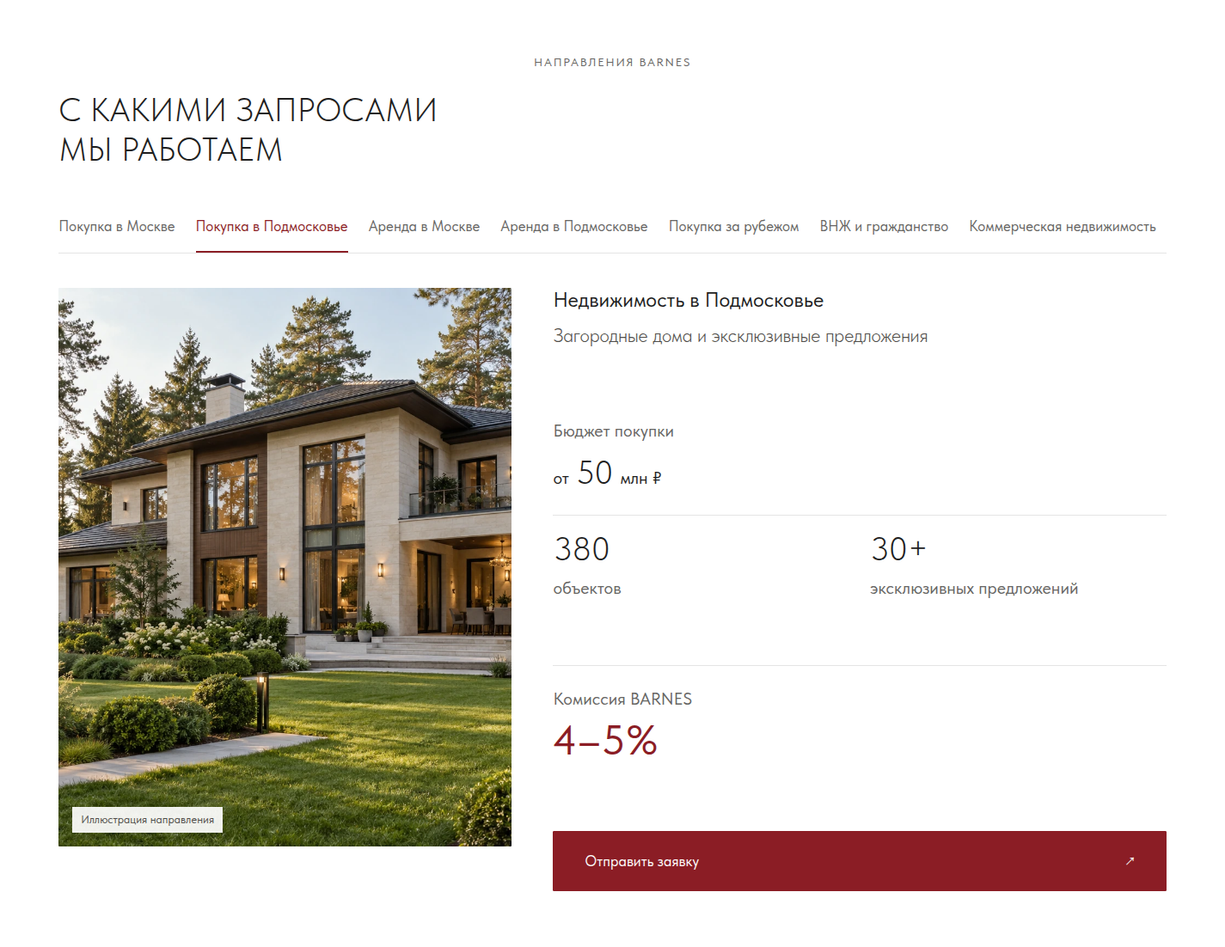
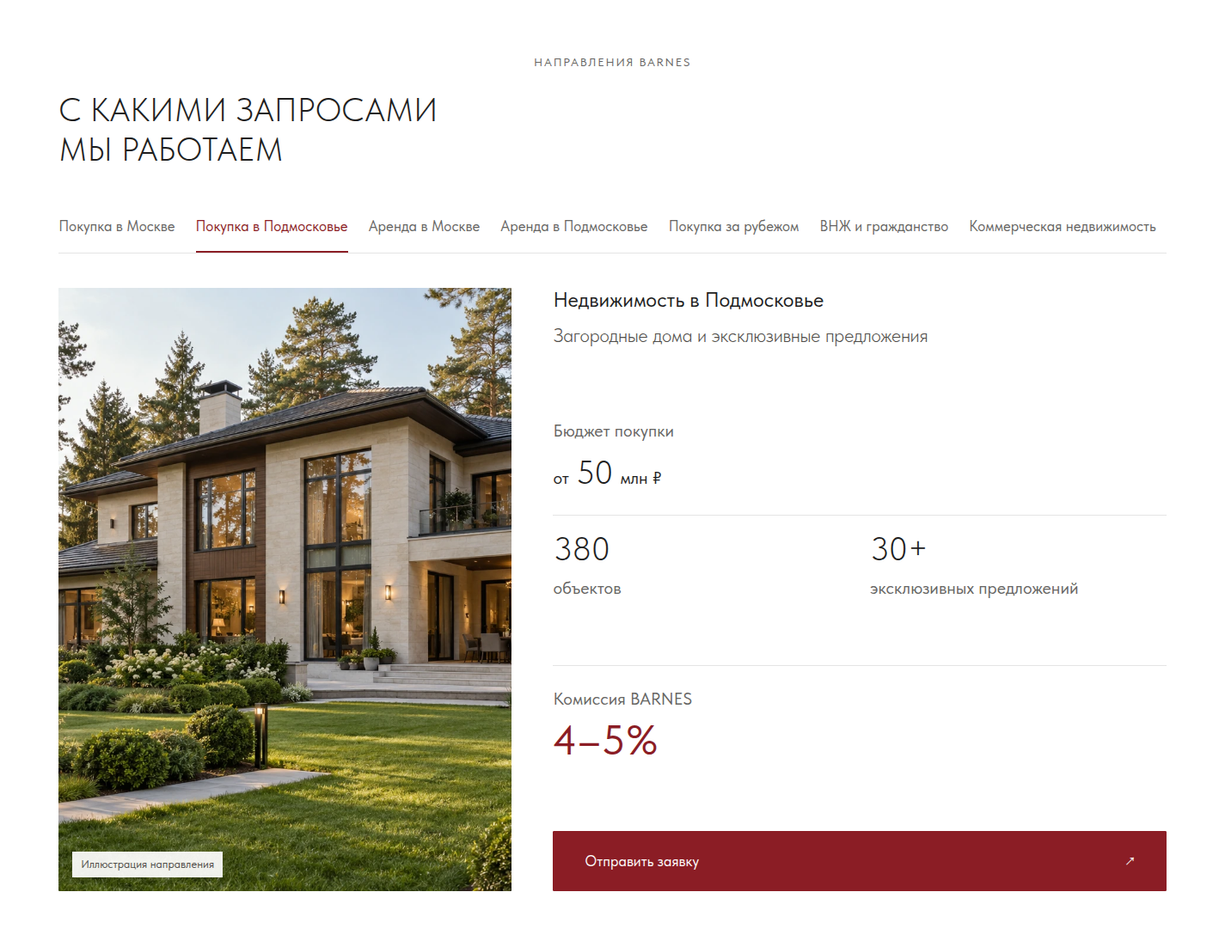
style: align direction image bottom with application button

Changed region(s): [[0.0309, 0.2777, 0.4323, 0.9564]]

diff --git a/for-partners/index.html b/for-partners/index.html
@@ -69,7 +69,7 @@
   <path d="M5 12h14"/>
 </svg>
 </span></span></button><div class="catalog-faq__answer" data-v-d09db9d2><div class="catalog-faq__answer-content" data-v-d09db9d2>Перед закреплением мы проверяем уникальность клиента. Если контакт уже есть в работе компании, рекомендация не может быть закреплена повторно.</div></div></div><!--]--></div><!--]--></div></div></section><!--teleport start--><!--teleport end--></div><!--]--></main><section class="newsletter-cta" aria-labelledby="newsletter-title" data-v-47bd53e9 data-v-6e36ab0f><div class="newsletter-cta__inner" data-v-6e36ab0f><div class="newsletter-cta__grid" data-v-6e36ab0f><div class="newsletter-cta__copy" data-v-6e36ab0f><h2 id="newsletter-title" data-v-6e36ab0f> Оставайтесь впереди рынка </h2><p class="newsletter-cta__lead" data-v-6e36ab0f> Новые проекты, редкие объекты и экспертные материалы BARNES — всё, что помогает лучше ориентироваться в мире элитной недвижимости. </p><form class="newsletter-form" novalidate data-v-6e36ab0f><label class="newsletter-form__label" for="newsletter-email" data-v-6e36ab0f> Ваш email </label><div class="newsletter-form__row" data-v-6e36ab0f><input id="newsletter-email" value name="email" type="email" autocomplete="email" placeholder="Ваш email" aria-describedby="newsletter-note" data-v-6e36ab0f><button type="submit" data-v-6e36ab0f>Подписаться <span aria-hidden="true" data-v-6e36ab0f>↗</span></button></div><p id="newsletter-error" class="newsletter-form__error" aria-hidden="true" data-v-6e36ab0f> </p><p class="newsletter-form__note" id="newsletter-note" data-v-6e36ab0f> Нажимая на кнопку, вы соглашаетесь с <a class="newsletter-form__note-link" target="_blank" href="/legal_notices/yuridicheskie-uvedomleniya/" data-v-6e36ab0f><!--[--> политикой конфиденциальности <!--]--></a>. </p><!----></form></div><div class="newsletter-cta__visual" data-v-6e36ab0f><picture data-v-6e36ab0f><source media="(max-width: 540px)" srcset="assets/subscribe-block-img-mob.webp" data-v-6e36ab0f><img src="assets/subscribe-block-img.webp" alt="Обложки журнала BARNES" width="1100" height="540" loading="lazy" data-v-6e36ab0f></picture></div></div></div></section><footer class="site-footer" data-v-47bd53e9 data-v-6eb18211><div class="site-footer__inner base-container" data-v-6eb18211><a class="site-footer__logo" aria-label="BARNES Moscow — на главную" href="https://front.barnes.vsavr.ru/" data-v-6eb18211><!--[--><img src="assets/logo.svg" alt="BARNES Moscow" width="318" height="44" data-v-6eb18211><!--]--></a><nav class="site-footer__nav" aria-label="Навигация по сайту" data-v-6eb18211><!--[--><div class="site-footer__column" data-v-6eb18211><p class="site-footer__column-title" data-v-6eb18211>Москва</p><ul class="site-footer__links" data-v-6eb18211><!--[--><li data-v-6eb18211><a class="site-footer__link" href="https://front.barnes.vsavr.ru/vtorichnaya-nedvizhimost/" data-v-6eb18211><!--[-->Вторичная<!--]--></a></li><li data-v-6eb18211><a class="site-footer__link" href="https://front.barnes.vsavr.ru/arendovat/" data-v-6eb18211><!--[-->Арендовать<!--]--></a></li><li data-v-6eb18211><a class="site-footer__link" href="https://front.barnes.vsavr.ru/novostroyki/" data-v-6eb18211><!--[-->Новостройки<!--]--></a></li><li data-v-6eb18211><a class="site-footer__link" href="https://front.barnes.vsavr.ru/zhilye-kompleksy/" data-v-6eb18211><!--[-->Жилые комплексы<!--]--></a></li><li data-v-6eb18211><a class="site-footer__link" href="https://front.barnes.vsavr.ru/gorodskaya-nedvizhimost/kvartiry/" data-v-6eb18211><!--[-->Квартиры<!--]--></a></li><li data-v-6eb18211><a class="site-footer__link" href="https://front.barnes.vsavr.ru/gorodskaya-nedvizhimost/apartamenty/" data-v-6eb18211><!--[-->Апартаменты<!--]--></a></li><li data-v-6eb18211><a class="site-footer__link" href="https://front.barnes.vsavr.ru/kupit-penthausy-v-moskve/" data-v-6eb18211><!--[-->Пентхаусы<!--]--></a></li><li data-v-6eb18211><a class="site-footer__link" href="https://front.barnes.vsavr.ru/zastroyshchiki/" data-v-6eb18211><!--[-->Застройщики<!--]--></a></li><!--]--></ul></div><div class="site-footer__column" data-v-6eb18211><p class="site-footer__column-title" data-v-6eb18211>Загородная</p><ul class="site-footer__links" data-v-6eb18211><!--[--><li data-v-6eb18211><a class="site-footer__link" href="https://front.barnes.vsavr.ru/zagorodnaya-nedvizhimost/" data-v-6eb18211><!--[-->Купить<!--]--></a></li><li data-v-6eb18211><a class="site-footer__link" href="https://front.barnes.vsavr.ru/snyat-zagorodnuyu-nedvizhimost/" data-v-6eb18211><!--[-->Снять<!--]--></a></li><li data-v-6eb18211><a class="site-footer__link" href="https://front.barnes.vsavr.ru/kottedzhnye-poselki/" data-v-6eb18211><!--[-->Коттеджные поселки<!--]--></a></li><!--]--></ul></div><div class="site-footer__column" data-v-6eb18211><p class="site-footer__column-title" data-v-6eb18211>Коммерческая</p><ul class="site-footer__links" data-v-6eb18211><!--[--><li data-v-6eb18211><a class="site-footer__link" href="https://front.barnes.vsavr.ru/kommercheskaya-nedvizhimost/" data-v-6eb18211><!--[-->Купить<!--]--></a></li><li data-v-6eb18211><a class="site-footer__link" href="https://front.barnes.vsavr.ru/kommercheskaya-nedvizhimost/arendovat/" data-v-6eb18211><!--[-->Снять<!--]--></a></li><li data-v-6eb18211><a class="site-footer__link" href="https://front.barnes.vsavr.ru/kommercheskaya-nedvizhimost/zdanie/" data-v-6eb18211><!--[-->Здания<!--]--></a></li><li data-v-6eb18211><a class="site-footer__link" href="https://front.barnes.vsavr.ru/kommercheskaya-nedvizhimost/business-center/" data-v-6eb18211><!--[-->Бизнес-центры<!--]--></a></li><li data-v-6eb18211><a class="site-footer__link" href="https://front.barnes.vsavr.ru/kommercheskaya-nedvizhimost/osobnyak/" data-v-6eb18211><!--[-->Особняки<!--]--></a></li><li data-v-6eb18211><a class="site-footer__link" href="https://front.barnes.vsavr.ru/kommercheskaya-nedvizhimost/arendnyj-biznes/" data-v-6eb18211><!--[-->Арендный бизнес<!--]--></a></li><!--]--></ul></div><div class="site-footer__column" data-v-6eb18211><p class="site-footer__column-title" data-v-6eb18211>Курортная</p><ul class="site-footer__links" data-v-6eb18211><!--[--><li data-v-6eb18211><a class="site-footer__link" href="https://front.barnes.vsavr.ru/media/tag/investitsii-v-kurortnuyu-nedvizhimost-rossii/" data-v-6eb18211><!--[-->Инвестиции<!--]--></a></li><li data-v-6eb18211><a class="site-footer__link" href="https://front.barnes.vsavr.ru/altai/" data-v-6eb18211><!--[-->Алтай<!--]--></a></li><li data-v-6eb18211><a class="site-footer__link" href="https://front.barnes.vsavr.ru/arhyz/" data-v-6eb18211><!--[-->Архыз<!--]--></a></li><li data-v-6eb18211><a class="site-footer__link" href="https://front.barnes.vsavr.ru/sochi/" data-v-6eb18211><!--[-->Сочи<!--]--></a></li><!--]--></ul></div><div class="site-footer__column" data-v-6eb18211><p class="site-footer__column-title" data-v-6eb18211>Зарубежная</p><ul class="site-footer__links" data-v-6eb18211><!--[--><li data-v-6eb18211><a class="site-footer__link" href="https://front.barnes.vsavr.ru/oae/" data-v-6eb18211><!--[-->ОАЭ<!--]--></a></li><li data-v-6eb18211><a class="site-footer__link" href="https://front.barnes.vsavr.ru/mezhdunarodnaya-nedvizhimost/turtsiya/" data-v-6eb18211><!--[-->Турция<!--]--></a></li><li data-v-6eb18211><a class="site-footer__link" href="https://front.barnes.vsavr.ru/tailand/" data-v-6eb18211><!--[-->Таиланд<!--]--></a></li><li data-v-6eb18211><a class="site-footer__link" href="https://front.barnes.vsavr.ru/zhilye-kompleksy-indonesia/" data-v-6eb18211><!--[-->Бали<!--]--></a></li><li data-v-6eb18211><a class="site-footer__link" href="https://front.barnes.vsavr.ru/ispaniya/" data-v-6eb18211><!--[-->Испания<!--]--></a></li><li data-v-6eb18211><a class="site-footer__link" href="https://front.barnes.vsavr.ru/italiya/" data-v-6eb18211><!--[-->Италия<!--]--></a></li><li data-v-6eb18211><a class="site-footer__link" href="https://front.barnes.vsavr.ru/portugaliya/" data-v-6eb18211><!--[-->Португалия<!--]--></a></li><li data-v-6eb18211><a class="site-footer__link" href="https://front.barnes.vsavr.ru/frantsiya/" data-v-6eb18211><!--[-->Франция<!--]--></a></li><li data-v-6eb18211><a class="site-footer__link" href="https://front.barnes.vsavr.ru/oman/" data-v-6eb18211><!--[-->Оман<!--]--></a></li><li data-v-6eb18211><a class="site-footer__link" href="https://front.barnes.vsavr.ru/mezhdunarodnaya-nedvizhimost-zhilye-kompleksy/" data-v-6eb18211><!--[-->Жилые комплексы<!--]--></a></li><!--]--></ul></div><div class="site-footer__column" data-v-6eb18211><p class="site-footer__column-title" data-v-6eb18211>Санкт-Петербург</p><ul class="site-footer__links" data-v-6eb18211><!--[--><li data-v-6eb18211><a class="site-footer__link" href="https://barnes-spb.ru/gorodskaya-nedvizhimost/vtorichnaya-nedvizhimost/" data-v-6eb18211><!--[-->Вторичная<!--]--></a></li><li data-v-6eb18211><a class="site-footer__link" href="https://barnes-spb.ru/gorodskaya-nedvizhimost/novostroyki/" data-v-6eb18211><!--[-->Новостройки<!--]--></a></li><li data-v-6eb18211><a class="site-footer__link" href="https://barnes-spb.ru/zagorodnaya-nedvizhimost/" data-v-6eb18211><!--[-->Загородная<!--]--></a></li><li data-v-6eb18211><a class="site-footer__link" href="https://barnes-spb.ru/kommercheskaya-nedvizhimost/" data-v-6eb18211><!--[-->Коммерческая<!--]--></a></li><li data-v-6eb18211><a class="site-footer__link" href="https://barnes-spb.ru/exclusive/" data-v-6eb18211><!--[-->Эксклюзив<!--]--></a></li><li data-v-6eb18211><a class="site-footer__link" href="https://barnes-spb.ru/gorodskaya-nedvizhimost/filter/type_immovables-is-apartamenty/" data-v-6eb18211><!--[-->Апартаменты<!--]--></a></li><li data-v-6eb18211><a class="site-footer__link" href="https://barnes-spb.ru/gorodskaya-nedvizhimost/filter/type_immovables-is-penthausy/" data-v-6eb18211><!--[-->Пентхаус<!--]--></a></li><!--]--></ul></div><div class="site-footer__column" data-v-6eb18211><p class="site-footer__column-title" data-v-6eb18211>Медиа</p><ul class="site-footer__links" data-v-6eb18211><!--[--><li data-v-6eb18211><a class="site-footer__link" href="https://front.barnes.vsavr.ru/media/blog/" data-v-6eb18211><!--[-->Блог<!--]--></a></li><li data-v-6eb18211><a class="site-footer__link" href="https://front.barnes.vsavr.ru/media/novosti/" data-v-6eb18211><!--[-->Новости<!--]--></a></li><li data-v-6eb18211><a class="site-footer__link" href="https://front.barnes.vsavr.ru/media/vebinary-i-video/" data-v-6eb18211><!--[-->Вебинары и видео<!--]--></a></li><li data-v-6eb18211><a class="site-footer__link" href="https://front.barnes.vsavr.ru/media/analitika/" data-v-6eb18211><!--[-->Аналитика рынка<!--]--></a></li><li data-v-6eb18211><a class="site-footer__link" href="https://front.barnes.vsavr.ru/media/stil-zhizni/" data-v-6eb18211><!--[-->Искусство жить<!--]--></a></li><li data-v-6eb18211><a class="site-footer__link" href="https://front.barnes.vsavr.ru/media/cases/" data-v-6eb18211><!--[-->Кейсы<!--]--></a></li><li data-v-6eb18211><a class="site-footer__link" href="https://front.barnes.vsavr.ru/zhurnaly/" data-v-6eb18211><!--[-->Журнал<!--]--></a></li><!--]--></ul></div><div class="site-footer__column" data-v-6eb18211><p class="site-footer__column-title" data-v-6eb18211>О BARNES</p><ul class="site-footer__links" data-v-6eb18211><!--[--><li data-v-6eb18211><a class="site-footer__link" href="https://front.barnes.vsavr.ru/contacts/" data-v-6eb18211><!--[-->Контакты<!--]--></a></li><li data-v-6eb18211><a class="site-footer__link" href="https://front.barnes.vsavr.ru/for-partners/" data-v-6eb18211><!--[-->Партнерам<!--]--></a></li><li data-v-6eb18211><a class="site-footer__link" href="https://front.barnes.vsavr.ru/barnes-club/" data-v-6eb18211><!--[-->Barnes Club<!--]--></a></li><li data-v-6eb18211><a class="site-footer__link" href="https://front.barnes.vsavr.ru/novosti/smi-o-nas/" data-v-6eb18211><!--[-->СМИ о нас<!--]--></a></li><li data-v-6eb18211><a class="site-footer__link" href="https://front.barnes.vsavr.ru/novosti/meropriyatiya/" data-v-6eb18211><!--[-->Мероприятия<!--]--></a></li><li data-v-6eb18211><a class="site-footer__link" href="https://front.barnes.vsavr.ru/team/" data-v-6eb18211><!--[-->Команда<!--]--></a></li><li data-v-6eb18211><a class="site-footer__link" href="https://front.barnes.vsavr.ru/vacancies/" data-v-6eb18211><!--[-->Вакансии<!--]--></a></li><li data-v-6eb18211><a class="site-footer__link" href="https://front.barnes.vsavr.ru/stily-zhizni/" data-v-6eb18211><!--[-->Стиль жизни<!--]--></a></li><!--]--></ul></div><div class="site-footer__column" data-v-6eb18211><p class="site-footer__column-title" data-v-6eb18211>Собственникам</p><ul class="site-footer__links" data-v-6eb18211><!--[--><li data-v-6eb18211><a class="site-footer__link" href="https://front.barnes.vsavr.ru/prodazha_sobstvennikam/" data-v-6eb18211><!--[-->Продажа<!--]--></a></li><li data-v-6eb18211><a class="site-footer__link" href="https://front.barnes.vsavr.ru/arenda_sobstvennikam/" data-v-6eb18211><!--[-->Аренда<!--]--></a></li><!--]--></ul></div><!--]--></nav><div class="site-footer__bottom" data-v-6eb18211><div class="site-footer__contacts" data-v-6eb18211><a class="site-footer__phone" href="tel:74951825079" data-v-6eb18211><!--[-->+7 (495) 182-50-79<!--]--></a><a class="site-footer__email" href="mailto:moscow@barn-estate.com" data-v-6eb18211><!--[-->moscow@barn-estate.com<!--]--></a><p class="site-footer__address" data-v-6eb18211>ул. Петровка, дом 19, стр. 1</p><p class="site-footer__hours" data-v-6eb18211>Время работы с 9.00-21.00</p><ul class="site-footer__socials" data-v-6eb18211><!--[--><li data-v-6eb18211><a class="site-footer__social" aria-label="youtube" target="_blank" rel="noopener noreferrer" href="https://www.youtube.com/@barnesmoscow?sub_confirmation=1" data-v-6eb18211><!--[--><svg class="site-footer__social-icon" width="38" height="38" viewBox="0 0 38 38" fill="none" xmlns="http://www.w3.org/2000/svg" aria-hidden="true" data-v-6eb18211><path d="M37.2432 9.79377C37.0283 8.98534 36.6049 8.24752 36.0154 7.65414C35.4258 7.06076 34.6907 6.63265 33.8836 6.41263C30.9127 5.61377 19.0377 5.61377 19.0377 5.61377C19.0377 5.61377 7.16272 5.61377 4.19181 6.41263C3.38478 6.63265 2.64968 7.06076 2.06009 7.65414C1.4705 8.24752 1.0471 8.98534 0.832265 9.79377C0.0377198 12.7776 0.0377197 19.0001 0.0377197 19.0001C0.0377197 19.0001 0.0377198 25.2226 0.832265 28.2065C1.0471 29.0149 1.4705 29.7527 2.06009 30.3461C2.64968 30.9395 3.38478 31.3676 4.19181 31.5876C7.16272 32.3865 19.0377 32.3865 19.0377 32.3865C19.0377 32.3865 30.9127 32.3865 33.8836 31.5876C34.6907 31.3676 35.4258 30.9395 36.0154 30.3461C36.6049 29.7527 37.0283 29.0149 37.2432 28.2065C38.0377 25.2226 38.0377 19.0001 38.0377 19.0001C38.0377 19.0001 38.0377 12.7776 37.2432 9.79377Z" fill="#A6A6A6" data-v-6eb18211></path><path d="M15.1514 24.6503V13.3496L25.0832 19L15.1514 24.6503Z" fill="#FEFEFE" data-v-6eb18211></path></svg><!--]--></a></li><li data-v-6eb18211><a class="site-footer__social" aria-label="dzen" target="_blank" rel="noopener noreferrer" href="https://dzen.ru/barnes" data-v-6eb18211><!--[--><svg class="site-footer__social-icon" width="32" height="32" viewBox="0 0 32 32" fill="none" xmlns="http://www.w3.org/2000/svg" aria-hidden="true" data-v-6eb18211><circle cx="16" cy="16" r="16" fill="#A6A6A6" data-v-6eb18211></circle><path d="M32 16.1714V15.8286C24.9143 15.6 21.68 15.4286 19.0857 12.9143C16.5714 10.32 16.3886 7.08571 16.1714 0H15.8286C15.6 7.08571 15.4286 10.32 12.9143 12.9143C10.32 15.4286 7.08571 15.6114 0 15.8286V16.1714C7.08571 16.4 10.32 16.5714 12.9143 19.0857C15.4286 21.68 15.6114 24.9143 15.8286 32H16.1714C16.4 24.9143 16.5714 21.68 19.0857 19.0857C21.68 16.5714 24.9143 16.3886 32 16.1714Z" fill="white" data-v-6eb18211></path></svg><!--]--></a></li><li data-v-6eb18211><a class="site-footer__social" aria-label="telegram" target="_blank" rel="noopener noreferrer" href="https://t.me/art_de_vivre_barnes" data-v-6eb18211><!--[--><svg class="site-footer__social-icon" width="32" height="32" viewBox="0 0 32 32" fill="none" xmlns="http://www.w3.org/2000/svg" aria-hidden="true" data-v-6eb18211><path d="M16 30C23.732 30 30 23.732 30 16C30 8.26801 23.732 2 16 2C8.26801 2 2 8.26801 2 16C2 23.732 8.26801 30 16 30Z" fill="white" fill-opacity="0.6" data-v-6eb18211></path><path fill-rule="evenodd" clip-rule="evenodd" d="M8.32993 15.8484C12.4099 14.0765 15.1259 12.8992 16.4898 12.328C20.3716 10.7077 21.1875 10.4279 21.7121 10.4163C21.8287 10.4163 22.0851 10.4396 22.26 10.5795C22.3999 10.696 22.4348 10.8476 22.4581 10.9641C22.4815 11.0807 22.5048 11.3255 22.4815 11.512C22.2716 13.7268 21.3624 19.1007 20.8961 21.5719C20.6979 22.6211 20.3133 22.9708 19.9402 23.0058C19.1243 23.0757 18.5064 22.4695 17.7254 21.9566C16.4898 21.1523 15.802 20.6511 14.6014 19.8584C13.2142 18.9491 14.1118 18.4479 14.9044 17.6319C15.1143 17.4221 18.693 14.1581 18.7629 13.8667C18.7746 13.8317 18.7746 13.6919 18.693 13.6219C18.6114 13.552 18.4948 13.5753 18.4015 13.5986C18.2733 13.6219 16.3149 14.9275 12.5031 17.5037C11.9436 17.8884 11.4423 18.0749 10.9877 18.0632C10.4865 18.0516 9.53059 17.7834 8.80786 17.5503C7.93359 17.2705 7.23417 17.119 7.29246 16.6294C7.32743 16.373 7.67714 16.1165 8.32993 15.8484Z" fill="white" data-v-6eb18211></path></svg><!--]--></a></li><!--]--></ul></div><div class="site-footer__meta" data-v-6eb18211><button type="button" class="site-footer__callback-btn" data-v-6eb18211> Обратная связь </button><a class="site-footer__privacy" href="https://front.barnes.vsavr.ru/legal_notices/yuridicheskie-uvedomleniya/" data-v-6eb18211><!--[--> Политика конфиденциальности <!--]--></a><p class="site-footer__copyright" data-v-6eb18211>© 2026 BARNES INTERNATIONAL REALTY</p></div></div></div><!--teleport start--><!--teleport end--></footer><!--teleport start--><!--teleport end--><span data-v-47bd53e9 data-v-cd0a1259></span><!--[--><!--]--></div></div></div><div id="teleports"></div><aside data-v-cd0a1259 class="floating-expert floating-expert--gorodskaya" aria-label="Руслан Прус"><button data-v-cd0a1259 type="button" class="floating-expert__card" aria-haspopup="dialog"><span data-v-cd0a1259 class="floating-expert__avatar"><img data-v-cd0a1259 src="assets/cta-ruslan-pruss.webp" alt="Руслан Прус" width="72" height="72" loading="lazy" decoding="async"></span><span data-v-cd0a1259 class="floating-expert__content"><span data-v-cd0a1259 class="floating-expert__label">Руководитель департамента городской недвижимости</span><span data-v-cd0a1259 class="floating-expert__title">Задать вопрос эксперту</span><span data-v-cd0a1259 class="floating-expert__name">Руслан Прус</span></span></button><button data-v-cd0a1259 type="button" class="floating-expert__close" aria-label="Скрыть карточку Руслан Прус"></button></aside>
-  <link rel="stylesheet" href="assets/directions/directions.css?v=6">
+  <link rel="stylesheet" href="assets/directions/directions.css?v=7">
   <script defer src="assets/directions/directions-data.js?v=4"></script>
   <script defer src="assets/directions/directions.js?v=4"></script>
   <link rel="stylesheet" href="assets/advantages-enhanced.css?v=20261008-2">

diff --git a/for-partners/assets/directions/directions.css b/for-partners/assets/directions/directions.css
@@ -11,8 +11,8 @@
 #barnes-directions .bd-navbtn[aria-selected=true] { color:var(--bd-red); border-bottom-color:var(--bd-red); }
 #barnes-directions .bd-mobile-picker { display:none; font:400 18px/24px "Tilda Sans",system-ui,sans-serif; }
 #barnes-directions .bd-feature { display:grid; grid-template-columns:minmax(0,.85fr) minmax(0,1.15fr); gap:48px; align-items:start; }
-#barnes-directions .bd-imagewrap { position:relative; width:100%; height:650px; overflow:hidden; border-radius:1px; background:#f1f1f1; }
-#barnes-directions .bd-photo { display:block; width:100%; height:100%; object-fit:cover; object-position:center; }
+#barnes-directions .bd-imagewrap { position:relative; width:100%; min-height:650px; align-self:stretch; overflow:hidden; border-radius:1px; background:#f1f1f1; }
+#barnes-directions .bd-photo { position:absolute; inset:0; display:block; width:100%; height:100%; object-fit:cover; object-position:center; }
 #barnes-directions .bd-image-caption { position:absolute; bottom:16px; left:16px; padding:6px 10px; background:rgba(255,255,255,.92); font-size:13px; line-height:18px; color:#4f4d49; }
 #barnes-directions .bd-copy { min-width:0; display:grid; grid-template-rows:minmax(128px,auto) minmax(88px,auto) minmax(176px,auto) minmax(144px,auto) 70px; gap:24px; }
 #barnes-directions .bd-heading h3 { font-size:24px; line-height:28.8px; font-weight:400; margin-bottom:12px; }
@@ -51,7 +51,7 @@
   #barnes-directions .bd-horizontal { display:none; }
   #barnes-directions .bd-mobile-picker { display:block; width:100%; min-height:58px; padding:14px 0; margin:0 0 24px; font:400 18px/24px "Tilda Sans",system-ui,sans-serif; border:0; border-bottom:1px solid var(--bd-line); border-radius:1px; color:var(--bd-red); background:white; }
   #barnes-directions .bd-feature { grid-template-columns:1fr; gap:32px; }
-  #barnes-directions .bd-imagewrap { height:320px; }
+  #barnes-directions .bd-imagewrap { height:320px; min-height:0; }
   #barnes-directions .bd-copy { grid-template-rows:minmax(112px,auto) minmax(84px,auto) minmax(176px,auto) minmax(128px,auto) 70px; gap:24px; }
 }
 @media(max-width:540px) {

diff --git a/for-partners/audit/directions-typography.md b/for-partners/audit/directions-typography.md
@@ -2,6 +2,8 @@
 
 Дата: 2026-10-08. Основание: запрос увеличить мелкий текст и проверить все роли блока. Источник: reference-ui.md, включая дополнения по карточкам собственников.
 
+Следующая правка геометрии: на desktop фото растягивается по Grid-строке до нижней границы кнопки (вместо фиксированных650 px); внутри изображения object-fit:cover, ширина прежняя. Проверены все семь категорий:1024/1440/1920 в focused-component,390 на полной странице с передачей направления в форму. На мобильном сохранены290/320 px. SEO-разметка, тексты и alt не изменялись.
+
 Последняя корректировка: усилить только пункты справа, вернуть размер выбора запроса. Проверка новой версии: все семь категорий на320/1024/1440/1920 в focused-component и390 на полной странице (включая передачу направления в форму). Минимальные desktop-строки бюджета88 px, показателей176 px и комиссии144 px обеспечивают стабильную позицию CTA. Фиксированные размеры фотографии сохранены; текст, метаданные страницы и заголовочная структура не менялись. Прогоны375/540/768/1280 ниже относятся к предыдущей версии типографики.
 
 | Элемент | ≤1024 px | 1025–1440 px | ≥1441 px | Вес |

diff --git a/for-partners/CHANGELOG.md b/for-partners/CHANGELOG.md
@@ -1,5 +1,11 @@
 # Изменения страницы партнёров
 
+## 2026-10-08 — фотография до нижнего края кнопки
+
+- На двухколоночной версии фотография растягивается по высоте правой панели до нижнего края CTA; object-fit:cover сохраняет пропорции без деформации.
+- На мобильной версии сохранены высоты290/320 px. Типографика, контент и ширины колонок не менялись. CSS cache-version7.
+- В браузерную проверку добавлено равенство нижних границ фото и CTA для всех семи категорий на desktop.
+
 ## 2026-10-08 — усиление правых пунктов, компактный выбор запроса
 
 - Названия, текстовые значения показателей и пояснения справа увеличены до20/28 desktop,18/25.2 mobile, вес400. Содержание и числовые акценты сохранены.
